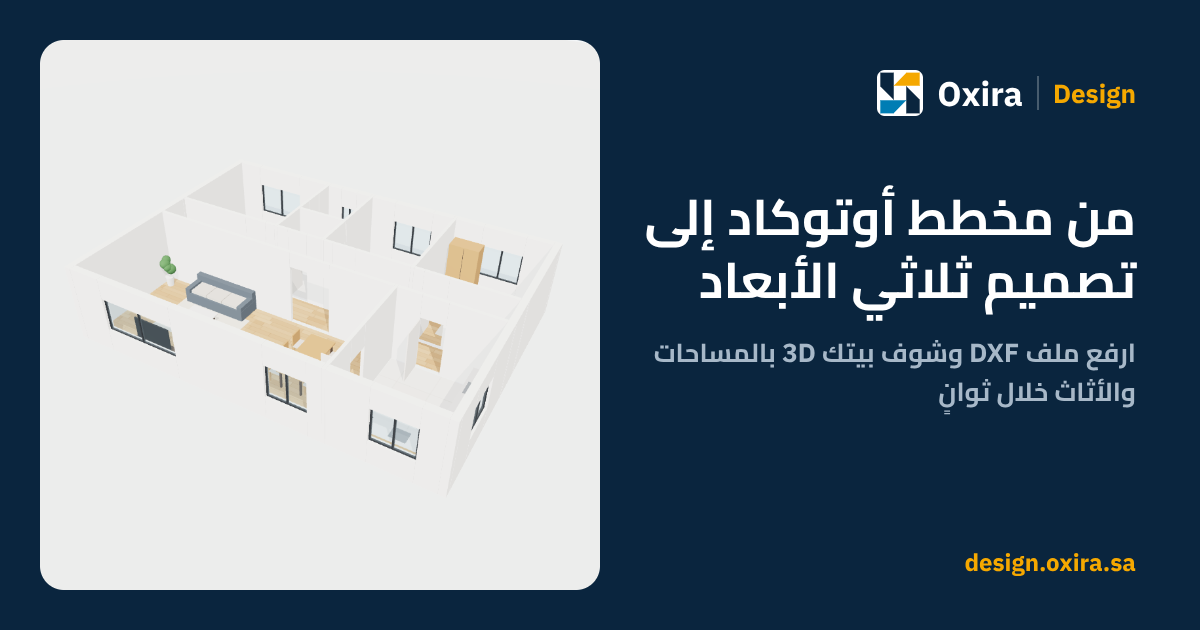
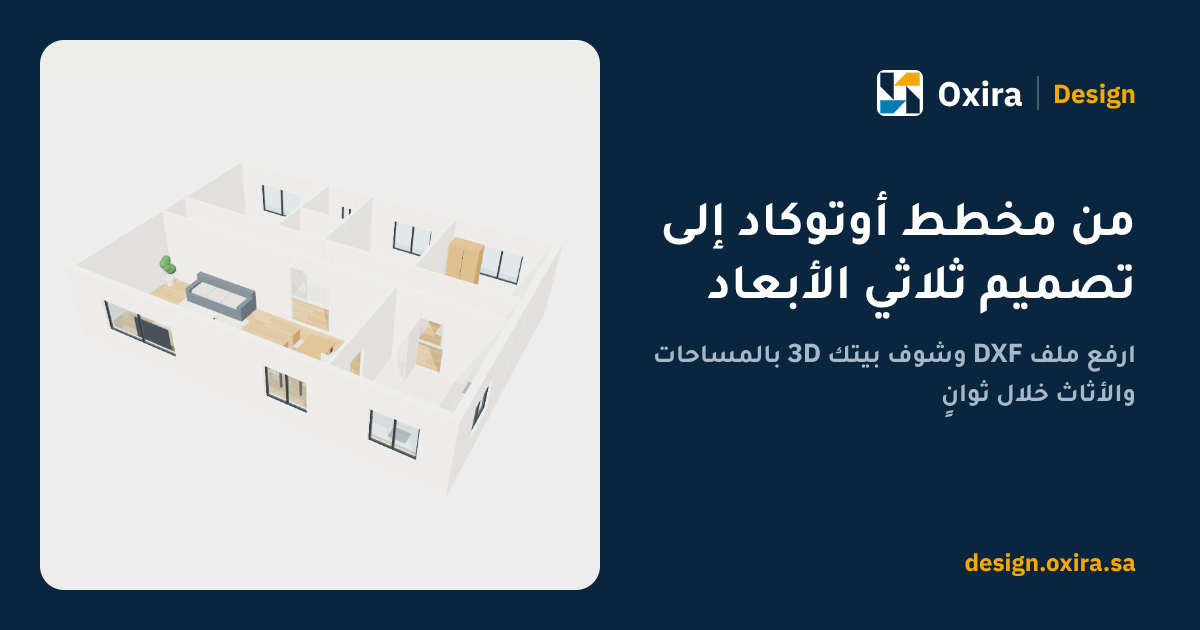
Arabic font: Tajawal, same as oxira.sa
Claude-Session: https://claude.ai/code/session_012dtkdWzbAZwAMNVpp2EwCV

Urdu pages keep Cairo (Tajawal has no Urdu letters); plan drawing, 3D labels and the Arabic share image follow.

Changed region(s): [[0.5242, 0.3016, 0.9558, 0.5127], [0.555, 0.5429, 0.9558, 0.6635]]

diff --git a/src/scripts/planner/render.ts b/src/scripts/planner/render.ts
@@ -30,7 +30,7 @@ export function floorSvg(p: Project, f: Floor, o: SvgOpts): { svg: string; geo: 
   const W = vx1 - vx0, H = vy1 - vy0;
   const X = (x: number) => f2(x - vx0), Y = (y: number) => f2(vy1 - y);
   const s: string[] = [];
-  s.push(`<svg xmlns="http://www.w3.org/2000/svg" viewBox="0 0 ${f2(W)} ${f2(H)}" class="pl-svg" font-family="Cairo, 'IBM Plex Sans', sans-serif">`);
+  s.push(`<svg xmlns="http://www.w3.org/2000/svg" viewBox="0 0 ${f2(W)} ${f2(H)}" class="pl-svg" style="font-family: var(--font, 'IBM Plex Sans', Tajawal, sans-serif)">`);
   s.push(`<defs><pattern id="pl-hatch" width="0.4" height="0.4" patternUnits="userSpaceOnUse" patternTransform="rotate(45)"><line x1="0" y1="0" x2="0" y2="0.4" stroke="#B9CBA9" stroke-width="0.05"/></pattern></defs>`);
   const rect = (r: Rect, attrs: string) => `<rect x="${X(r.x0)}" y="${Y(r.y1)}" width="${f2(r.x1 - r.x0)}" height="${f2(r.y1 - r.y0)}" ${attrs}/>`;
   const line = (x0: number, y0: number, x1: number, y1: number, attrs: string) => `<line x1="${X(x0)}" y1="${Y(y0)}" x2="${X(x1)}" y2="${Y(y1)}" ${attrs}/>`;

diff --git a/src/styles/global.css b/src/styles/global.css
@@ -16,7 +16,7 @@
   --paper: #F5F7F9;
   --white: #FFFFFF;
 
-  --font: 'IBM Plex Sans', 'Cairo', 'Noto Sans Devanagari', system-ui, 'PingFang SC', 'Hiragino Sans GB', 'Microsoft YaHei', 'Noto Sans SC', sans-serif;
+  --font: 'IBM Plex Sans', 'Tajawal', 'Noto Sans Devanagari', system-ui, 'PingFang SC', 'Hiragino Sans GB', 'Microsoft YaHei', 'Noto Sans SC', sans-serif;
 
   --s-1: .875rem;
   --s0: 1.0625rem;
@@ -53,6 +53,8 @@ html[dir='ltr'] body { line-height: 1.65; }
 h1, h2, h3, h4 { font-weight: 700; line-height: 1.3; margin: 0; }
 html[dir='ltr'] :is(h1, h2) { letter-spacing: -0.02em; line-height: 1.12; }
 html[lang='ar'] :is(h1, h2) { line-height: 1.35; }
+html[lang='ur'] { --font: 'IBM Plex Sans', 'Cairo', system-ui, sans-serif; }
+html[lang='ur'] :is(h1, h2) { line-height: 1.5; }
 p { margin: 0; }
 a { color: inherit; }
 img, svg { display: block; max-width: 100%; }

diff --git a/src/scripts/studio/viewer.ts b/src/scripts/studio/viewer.ts
@@ -472,7 +472,7 @@ function makeLabel(text: string): THREE.Sprite {
   const c = document.createElement('canvas');
   const fs = 44;
   const g = c.getContext('2d')!;
-  const font = (w: number) => `${w} ${fs}px "IBM Plex Sans", Cairo, system-ui, sans-serif`;
+  const font = (w: number) => `${w} ${fs}px "IBM Plex Sans", ${document.documentElement.lang === 'ur' ? 'Cairo' : 'Tajawal'}, system-ui, sans-serif`;
   g.font = font(700);
   const w = Math.ceil(Math.max(...lines.map((l, i) => { g.font = font(i ? 500 : 700); return g.measureText(l).width; }))) + 48;
   const h = lines.length * (fs + 10) + 28;

diff --git a/scripts/og.py b/scripts/og.py
@@ -30,11 +30,11 @@ with sync_playwright() as p:
     for lang, (d, title, sub) in TXT.items():
         if only and lang not in only: continue
         html = f'''<html dir="{d}"><head><style>
-@font-face {{ font-family: Cairo; font-weight: 700; src: url({F('cairo/files/cairo-arabic-700-normal.woff2')}); }}
+@font-face {{ font-family: Tajawal; font-weight: 700; src: url({F('tajawal/files/tajawal-arabic-700-normal.woff2')}); }}
 @font-face {{ font-family: Plex; font-weight: 700; src: url({F('ibm-plex-sans/files/ibm-plex-sans-latin-700-normal.woff2')}); }}
 @font-face {{ font-family: Plex; font-weight: 700; src: url({F('ibm-plex-sans/files/ibm-plex-sans-cyrillic-700-normal.woff2')}); unicode-range: U+0400-04FF; }}
 @font-face {{ font-family: Deva; font-weight: 700; src: url({F('noto-sans-devanagari/files/noto-sans-devanagari-devanagari-700-normal.woff2')}); }}
-body {{ margin:0; width:1200px; height:630px; background:#0A253E; font-family: Plex, Cairo, Deva, 'Noto Sans CJK SC', 'Noto Sans CJK TC', sans-serif; color:#fff; overflow:hidden; position:relative; }}
+body {{ margin:0; width:1200px; height:630px; background:#0A253E; font-family: Plex, Tajawal, Deva, 'Noto Sans CJK SC', 'Noto Sans CJK TC', sans-serif; color:#fff; overflow:hidden; position:relative; }}
 .img {{ position:absolute; top:40px; bottom:40px; inset-inline-end:40px; width:560px; border-radius:24px; background:#F3F6F8 url({model}) center/cover; }}
 .txt {{ position:absolute; inset-inline-start:64px; top:70px; width:500px; }}
 .brand {{ display:flex; align-items:center; gap:14px; font-size:34px; direction:ltr; justify-content:flex-{'end' if d=='rtl' else 'start'}; }}
